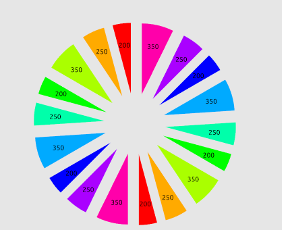
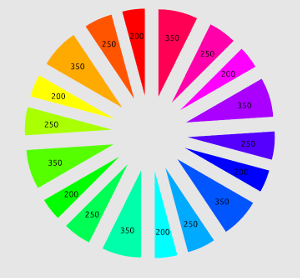
Charts: Adjust default theme.

diff --git a/doc/charts.doxy.h b/doc/charts.doxy.h
@@ -2426,7 +2426,6 @@ chart "My chart", "pie"
  *
  * \subsection third 3D
 @code
-rotatey -15
 light 0
 chart_set_style ""
 chart_set_format "3D"
@@ -2451,7 +2450,6 @@ chart "My chart", "pie"
  *
  * \subsection third 3D
 @code
-rotatey -15
 light 0
 chart_set_style "exploded"
 chart_set_format "3D"
@@ -2500,7 +2498,6 @@ chart "My chart", "pie"
  *
  * \subsection third 3D
 @code
-rotatey -15
 light 0
 chart_set_style ""
 chart_set_format "3D"
@@ -2525,7 +2522,6 @@ chart "My chart", "pie"
  *
  * \subsection third 3D
 @code
-rotatey -15
 light 0
 chart_set_style "exploded"
 chart_set_format "3D"
